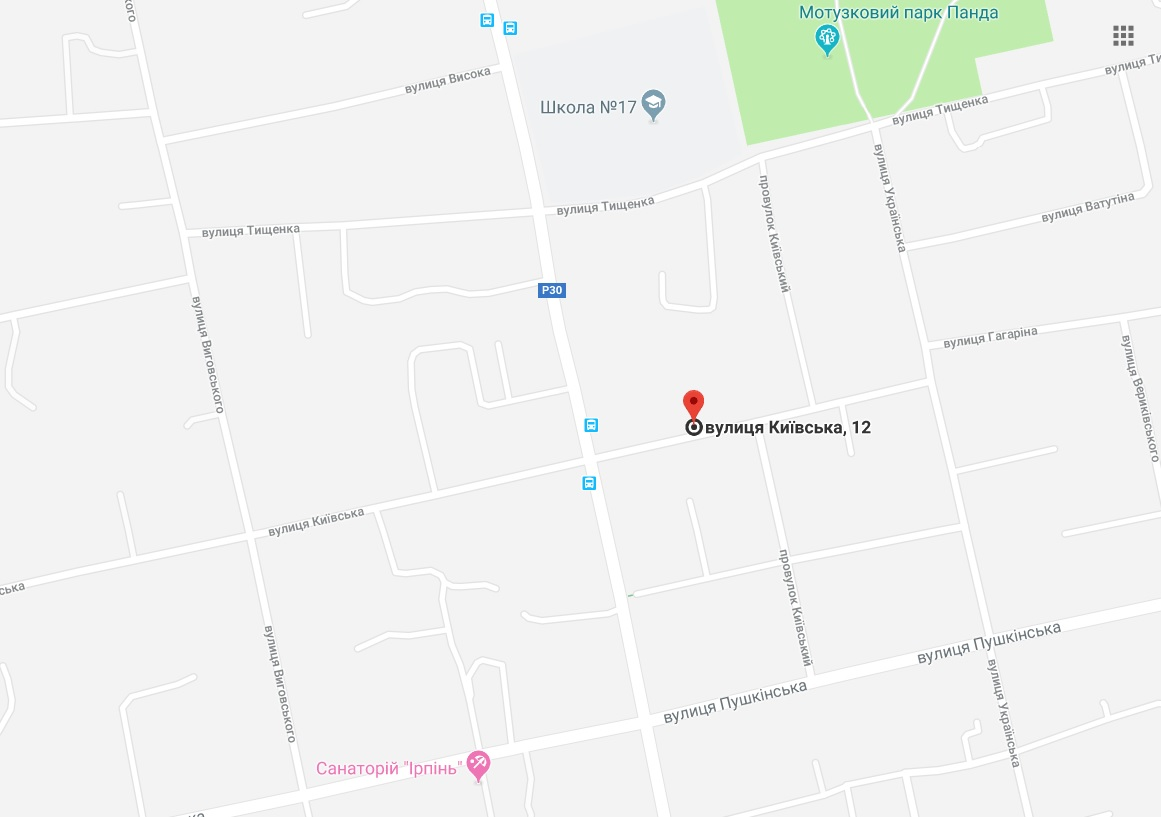
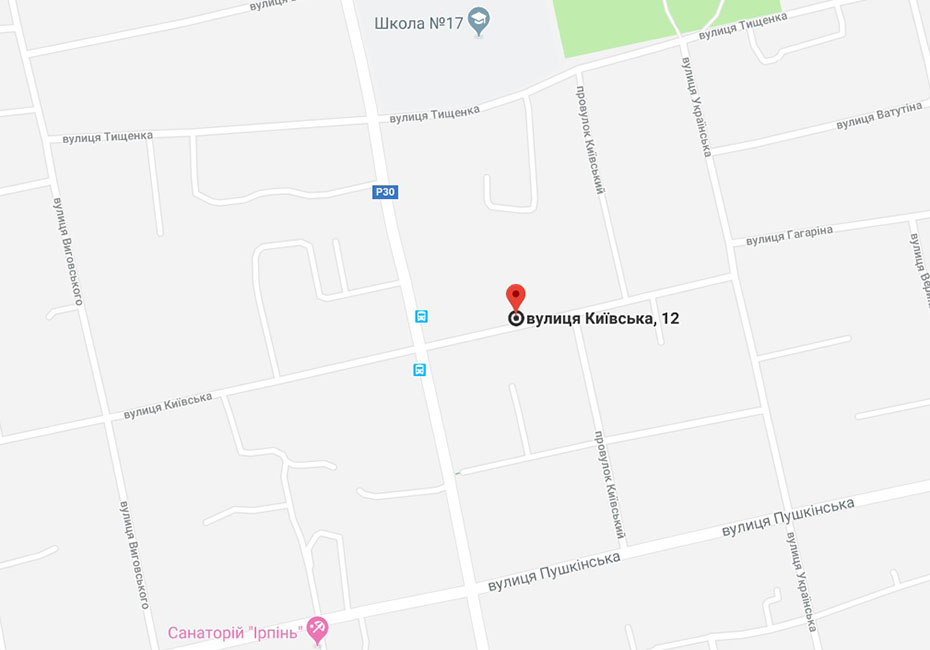
Section Delivery was added

diff --git a/index.html b/index.html
@@ -476,17 +476,30 @@
 	<section id="delivery">
 		<div class="container">
 			<div class="row">
-				<div class="col-12">
+				<div class="col-8 offset-2">
 					<h4 class="text-center">Доставка</h4>
-					<p></p> <br>
-					<p></p>
+					<p>У Вас есть возможность забрать заказ самостоятельно по адресу:<br>
+					г. Ирпинь, ул. Киевская 12</p>
 				</div>
-				<div class="col-12">
-					<img src="" alt="">
+				<div class="col-12 text-center" id="way"> 
+					<a href="https://www.google.com/maps/dir//%D0%B2%D1%83%D0%BB%D0%B8%D1%86%D1%8F+%D0%9A%D0%B8%D1%97%D0%B2%D1%81%D1%8C%D0%BA%D0%B0,+12,+%D0%86%D1%80%D0%BF%D1%96%D0%BD%D1%8C,+%D0%9A%D0%B8%D1%97%D0%B2%D1%81%D1%8C%D0%BA%D0%B0+%D0%BE%D0%B1%D0%BB.,+08200/@50.5143638,30.2278482,16z/data=!4m8!4m7!1m0!1m5!1m1!1s0x472b33da076a6245:0x7d6d7eaf4b78f78!2m2!1d30.2322256!2d50.5143639" class="btn btn-outline-secondary" role="button" target="_blank">Посмотреть маршрут</a>
+				</div>
+				<div class="col-12 text-center">
+					<img src="img/map.jpg" alt="г. Ирпинь, ул. Киевская 12" title="г. Ирпинь" class="img-fluid">
 				</div>
 			</div>
 		</div>
 	</section>
+
+	<footer id="contacts">
+		<div class="container-fluid">
+			<div class="row">
+				<div class="col-12">
+					<h4 class="text-center">Контакты</h4>
+				</div>
+			</div>
+		</div>
+	</footer>
 
 	<script src="https://code.jquery.com/jquery-3.2.1.slim.min.js" integrity="sha384-KJ3o2DKtIkvYIK3UENzmM7KCkRr/rE9/Qpg6aAZGJwFDMVNA/GpGFF93hXpG5KkN" crossorigin="anonymous"></script>
 	<script src="https://cdnjs.cloudflare.com/ajax/libs/popper.js/1.12.9/umd/popper.min.js" integrity="sha384-ApNbgh9B+Y1QKtv3Rn7W3mgPxhU9K/ScQsAP7hUibX39j7fakFPskvXusvfa0b4Q" crossorigin="anonymous"></script>

diff --git a/css/custom.css b/css/custom.css
@@ -222,7 +222,6 @@
 }
 
 #price h5 > span {
-	border-bottom: 2px solid rgb(235, 104, 100);
 	margin-bottom: 45px;
 	font-size: 0.8rem;
 	color: rgb(34, 34, 34);
@@ -234,7 +233,7 @@ p.sale {
 }
 
 #price p.sale > span {
-	border-bottom: 2px solid rgb(235, 104, 100);
+	color: rgb(235, 104, 100);
 }
 
 /*parallax*/
@@ -324,4 +323,35 @@ p.sale {
 	background-color: rgb(255, 255, 255);
 	transform: skew(0, -3deg);
 	z-index:10;
+}
+
+/*delivery*/ 
+
+#delivery {
+	padding-top: 50px;
+	font-family: 'Comfortaa', cursive;
+	text-align:center;
+}
+
+#delivery h4 {
+	font-family: 'Comfortaa', cursive;
+	color: rgb(115, 19, 16);
+	padding-bottom: 20px;
+}
+
+#way a {
+	margin-bottom: 30px;
+}
+
+.btn-outline-secondary {
+	font-family: 'Comfortaa', cursive;
+	font-weight: 300;
+	color: rgb(34, 34, 34);
+}
+
+/*contacts*/ 
+#contacts {
+	margin-top: 50px;
+	font-family: 'Comfortaa', cursive;
+	text-align:center;
 }
